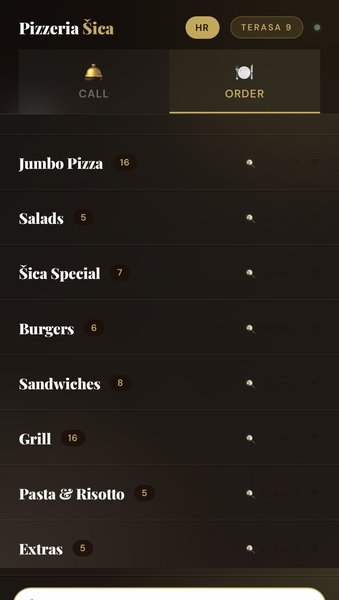
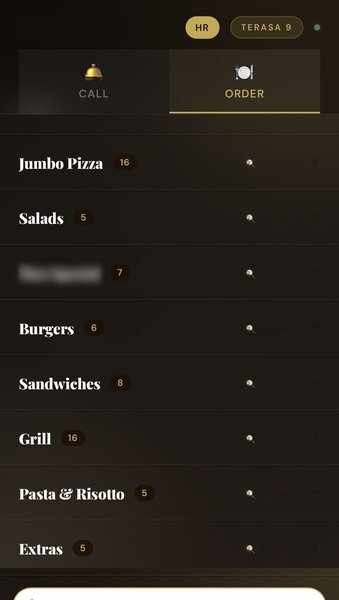
Software: kartica naručivanja postaje SOVA kartica, snimke bez podataka o lokalu
Claude-Session: https://claude.ai/code/session_01FfEAUH39irFBXd8UJfE9yU

Changed region(s): [[0.059, 0.42, 0.295, 0.48], [0.059, 0.03, 0.354, 0.06]]

diff --git a/index.html b/index.html
@@ -528,6 +528,8 @@
     padding: 1px 7px; border-radius: 4px; margin-bottom: 6px;
   }
   .featured-tool h4 { font-size: 1rem; color: #fff; margin-bottom: 6px; }
+  .featured-tool h4.ft-sova-title { display: flex; align-items: center; gap: 8px; }
+  .ft-sova-title img { width: 40px; height: 40px; flex: none; object-fit: contain; }
   .featured-tool .ft-features {
     display: flex; flex-wrap: wrap; gap: 6px; margin: 10px 0;
   }
@@ -1251,7 +1253,7 @@
         </div>
         <div>
           <span class="ft-badge">ISTAKNUTO · AKTIVNO</span>
-          <h4>Sustav naručivanja bez konobara</h4>
+          <h4 class="ft-sova-title"><img src="/sova/sova-sletjela-cisto.webp" alt="" width="40" height="40" loading="lazy">SOVA — QR naručivanje bez konobara</h4>
           <p style="font-size:0.85rem;color:var(--text-muted);">Gost skenira QR kod na stolu i naručuje s mobitela, bez aplikacije. Konobar po potrebi upisuje narudžbe sa svog mobitela, a sve narudžbe i pozivi stižu u jedan admin sustav.</p>
           <div class="ft-features">
             <span>📱 Narudžba skeniranjem QR koda</span>
@@ -1259,8 +1261,8 @@
             <span>🧑🍳 Konobar može upisivati narudžbe s mobitela</span>
             <span>🖥 Admin sustav prima sve narudžbe</span>
           </div>
-          <div class="lab-item-links" style="margin-top:4px;">
-            <a href="/sova/">SOVA — saznaj više →</a>
+          <div class="ft-zr-actions">
+            <a class="ft-zr-btn" href="/sova/">Pogledaj kako radi →</a>
           </div>
         </div>
       </div>
